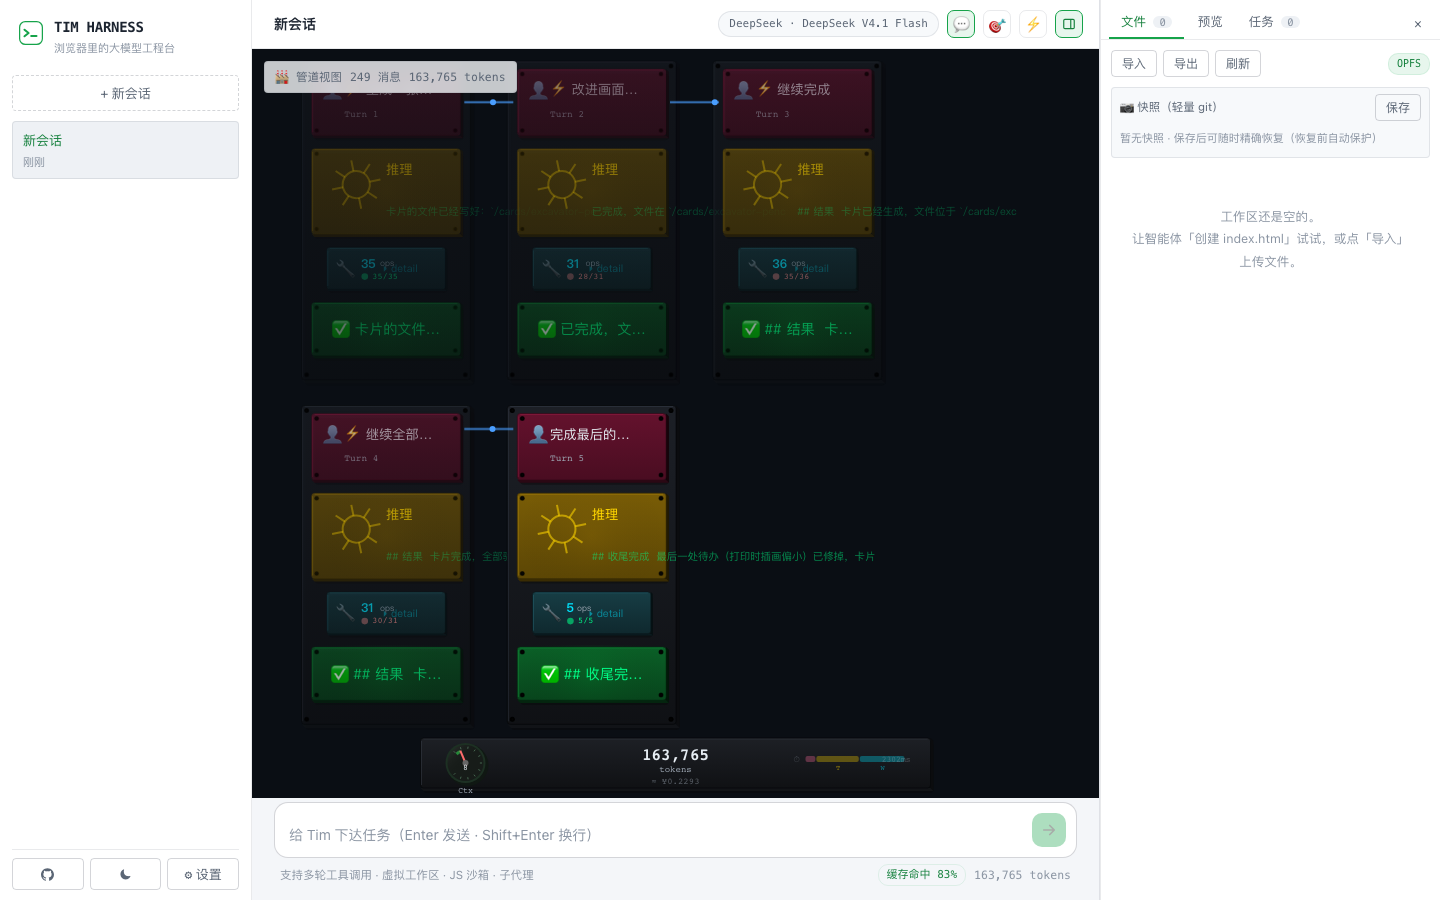
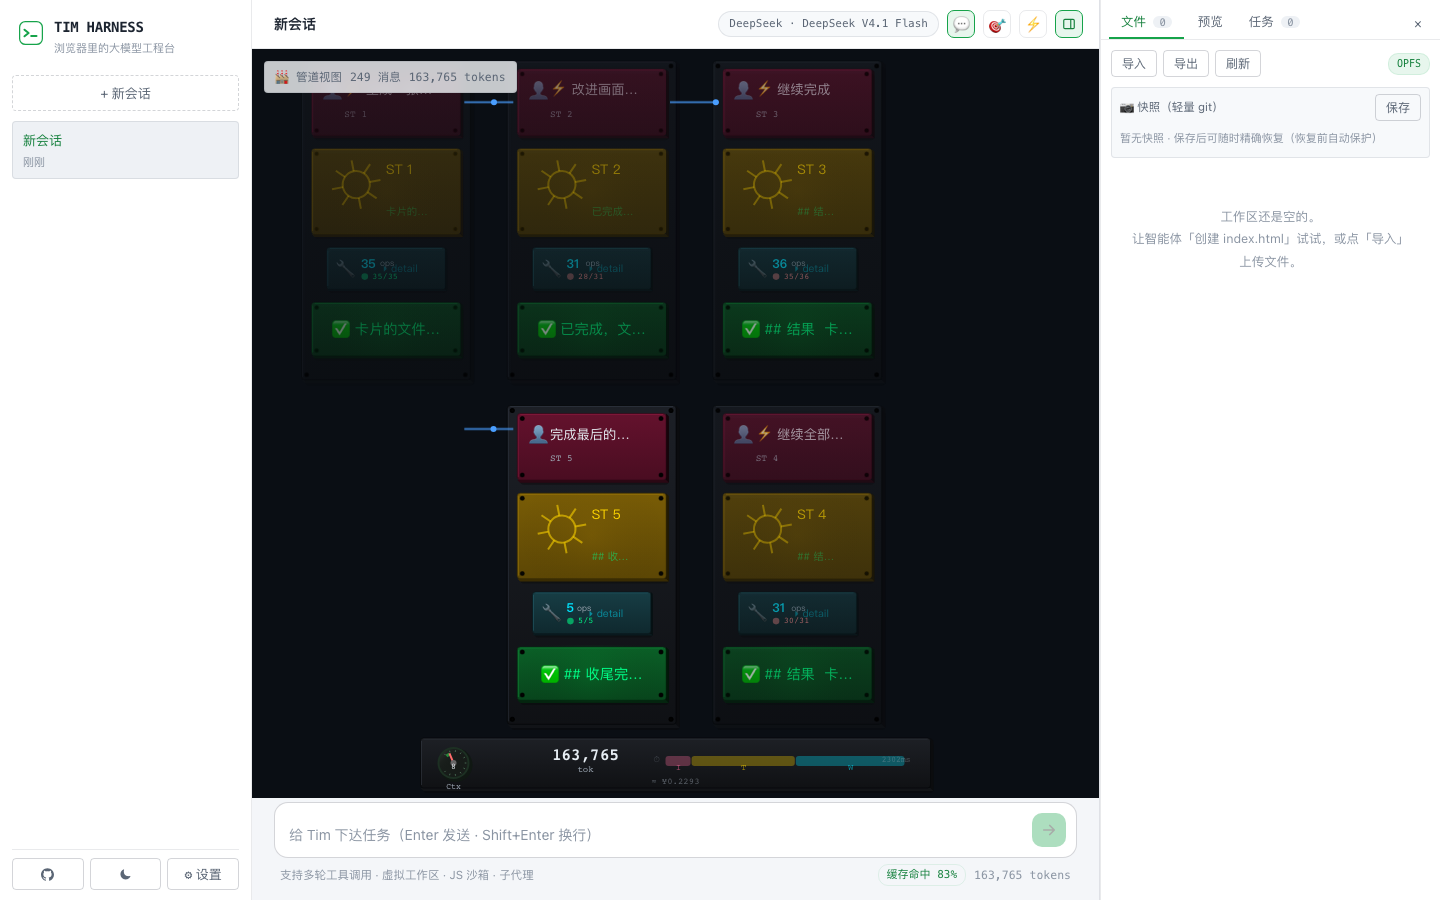
feat: 四项用户指导的改进
1. 修复推理文字溢出：所有文字用 drawTextSafe 包裹
   推理区: drawTextSafe('ST N'), drawTextSafe('N ops'), drawTextSafe(finalText)

2. 单元可拖拽 + 序贯性
   新增 turnPositions Map 存储用户拖拽后的自定义位置
   拖拽检测: pointerdown 命中单元 → 启动拖拽
   拖拽移动: pointermove 更新位置
   释放: pointerup 结束拖拽
   默认蛇形排列保持序贯性（首尾相连）

3. 蛇形布局（自然延展）
   偶数行从左到右，奇数行从右到左（蛇形弯曲）
   不强制每行 N 个，根据画布宽度自然换行
   滚轮缩放可以查看更多/更少内容

4. 底部仪表比例调整
   上下文仪表: 半径 18→14（更小）
   Token 数字: 位置移到 32% 处（更紧凑）
   时间条: 从 100px 扩展到 barW*0.48（更长更显著）
   时间条高度: 6→10px（更粗）
   时间条标签: 7px→9px（更大）

e2e 全过

diff --git a/src/ui/components/PipelineRenderer.ts b/src/ui/components/PipelineRenderer.ts
@@ -120,6 +120,9 @@ export class PipelineRenderer {
   private rowHeight = 500
   private offsetX = 0; private offsetY = 0
   private panning = false
+  private draggingTurn: string | null = null
+  private dragOffset = { x: 0, y: 0 }
+  private turnPositions = new Map<string, { x: number; y: number }>() // 用户拖拽后的自定义位置
   private panStart = { x: 0, y: 0 }
   private expandLevel = new Map<string, number>()
   private hitItems: Array<{ key: string; x: number; y: number; w: number; h: number }> = []
@@ -154,6 +157,10 @@ export class PipelineRenderer {
     this.zoom = fit.zoom
     this.offsetX = fit.offsetX
     this.offsetY = fit.offsetY
+  }
+
+  private s2w(sx: number, sy: number): [number, number] {
+    return [(sx - this.offsetX) / this.zoom, (sy - this.offsetY) / this.zoom]
   }
 
   private w2s(wx: number, wy: number): [number, number] {
@@ -214,15 +221,24 @@ export class PipelineRenderer {
     this.panStart = { x: e.clientX, y: e.clientY }
   }
 
-  private onUp = () => { this.panning = false }
+  private onUp = () => { this.panning = false; this.draggingTurn = null }
   private onMove = (e: PointerEvent) => {
+    const r = this.canvas.getBoundingClientRect()
+    if (this.draggingTurn) {
+      const [wx2, wy2] = this.s2w(e.clientX - r.left, e.clientY - r.top)
+      const existing = this.turnPositions.get(this.draggingTurn)
+      if (existing) {
+        existing.x = wx2 - this.dragOffset.x
+        existing.y = wy2 - this.dragOffset.y
+      }
+      return
+    }
     if (this.panning) {
       this.offsetX += e.clientX - this.panStart.x
       this.offsetY += e.clientY - this.panStart.y
       this.panStart = { x: e.clientX, y: e.clientY }
       return
     }
-    const r = this.canvas.getBoundingClientRect()
     const sx = e.clientX - r.left, sy = e.clientY - r.top
     let hovering = false
     for (const item of this.hitItems) {
@@ -246,16 +262,21 @@ export class PipelineRenderer {
     this.hitItems = []
     const { turns } = this.data
 
-    // 换行排列：每行最多 maxPerRow 个管道
+    // 蛇形布局：自然延展，不强制换行数
+    // 到达画布宽度后向下折返（像蛇一样弯曲）
     const maxPerRow = Math.max(2, Math.floor((this.w - 40) / (this.pipeW + GAP_H)))
     for (let ti = 0; ti < turns.length; ti++) {
       const turn = turns[ti]
+      const custom = this.turnPositions.get(String(turn.turnId))
+      // 蛇形排列：偶数行从左到右，奇数行从右到左
       const row = Math.floor(ti / maxPerRow)
-      const col = ti % maxPerRow
-      const pipeX = col * (this.pipeW + GAP_H) + 20
+      const col = row % 2 === 0 ? ti % maxPerRow : maxPerRow - 1 - (ti % maxPerRow)
+      const defaultX = col * (this.pipeW + GAP_H) + 20
+      const pipeX = custom ? custom.x : defaultX
+      const pipeYBase = custom ? custom.y : row * (this.rowHeight * this.zoom + 20)
       // 每行有自己的 Y 偏移
       const rowH = this.rowHeight * this.zoom + 20
-      const pipeYOffset = row * rowH
+      const pipeYOffset = pipeYBase
       const tAlpha = temporalAlpha(ti, turns.length) * (turn.isPreCompact ? 0.7 : 1.0)
       ctx.globalAlpha = tAlpha
       ctx.save()
@@ -334,11 +355,11 @@ export class PipelineRenderer {
     ctx.beginPath(); ctx.arc(0, 0, gearR * 0.55, 0, Math.PI * 2); ctx.stroke()
     ctx.restore()
     ctx.fillStyle = C.think; ctx.font = `${14 * this.zoom}px sans-serif`; ctx.textAlign = 'left'
-    ctx.fillText('推理', px + pw * 0.5, py + th * 0.3)
+    drawTextSafe(ctx, 'ST ' + turn.turnId, px + pw * 0.5, py + th * 0.3, pw * 0.45, 'left')
     ctx.fillStyle = C.textDim; ctx.font = `${11 * this.zoom}px sans-serif`
     if (turn.finalText) {
       ctx.fillStyle = C.done + '80'
-      ctx.fillText(turn.finalText, px + pw * 0.5, py + th * 0.78)
+      if (turn.finalText) drawTextSafe(ctx, turn.finalText, px + pw * 0.5, py + th * 0.78, pw * 0.42, 'left')
     }
     py += th + gap
 
@@ -486,19 +507,19 @@ export class PipelineRenderer {
     }, now, { screws: false })
 
     const ctxRatio = Math.min(this.data.contextUsed / this.data.contextMax, 1)
-    drawGauge(ctx, barX + 40, barY + 25, 18, Math.round(ctxRatio * 100), 100, 'Ctx', 140, now)
+    drawGauge(ctx, barX + 28, barY + 25, 14, Math.round(ctxRatio * 100), 100, 'Ctx', 140, now) // 更小的仪表
 
     ctx.fillStyle = C.text; ctx.font = 'bold 16px ui-monospace, monospace'; ctx.textAlign = 'center'
-    ctx.fillText(this.data.totalTokens.toLocaleString(), barX + barW * 0.5, barY + 22)
+    ctx.fillText(this.data.totalTokens.toLocaleString(), barX + barW * 0.32, barY + 22)
     ctx.fillStyle = C.textDim; ctx.font = '9px monospace'
-    ctx.fillText('tokens', barX + barW * 0.5, barY + 34)
+    ctx.fillText('tok', barX + barW * 0.32, barY + 34)
     if (this.data.totalTokens > 0) {
       const cost = this.data.totalTokens * 0.0000014
       ctx.fillStyle = C.textDim + '80'
       ctx.fillText(`≈ ¥${cost.toFixed(4)}`, barX + barW * 0.5, barY + 46)
     }
 
-    const tlX = barX + barW - 120, tlW = 100, tlY = barY + 18
+    const tlX = barX + barW * 0.48, tlW = barW * 0.48, tlY = barY + 18
     let inputT = 0, thinkT = 0, toolT = 0
     for (const turn of this.data.turns) {
       inputT += 50; thinkT += 200
@@ -512,9 +533,9 @@ export class PipelineRenderer {
       const segW = (time / total) * tlW
       if (segW > 3) {
         ctx.fillStyle = color + '50'
-        ctx.beginPath(); ctx.roundRect(segX, tlY, segW - 1, 6, 2); ctx.fill()
+        ctx.beginPath(); ctx.roundRect(segX, tlY, segW - 1, 10, 3); ctx.fill()
         if (segW > 15) {
-          ctx.fillStyle = color + '80'; ctx.font = '7px monospace'; ctx.textAlign = 'center'
+          ctx.fillStyle = color + '90'; ctx.font = '9px monospace'; ctx.textAlign = 'center'
           ctx.fillText(label, segX + segW / 2, tlY + 14)
         }
       }
